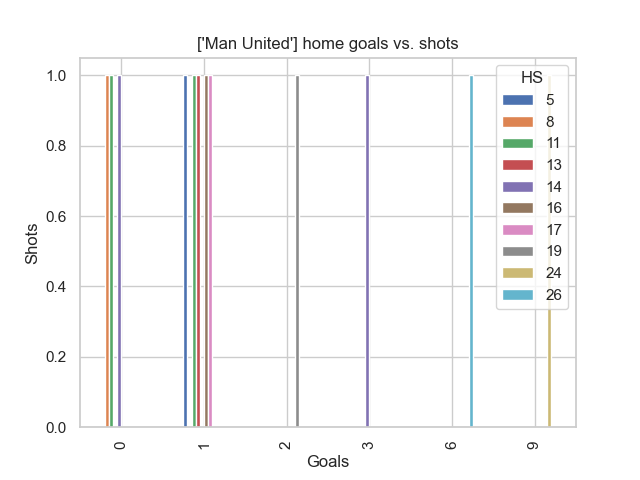
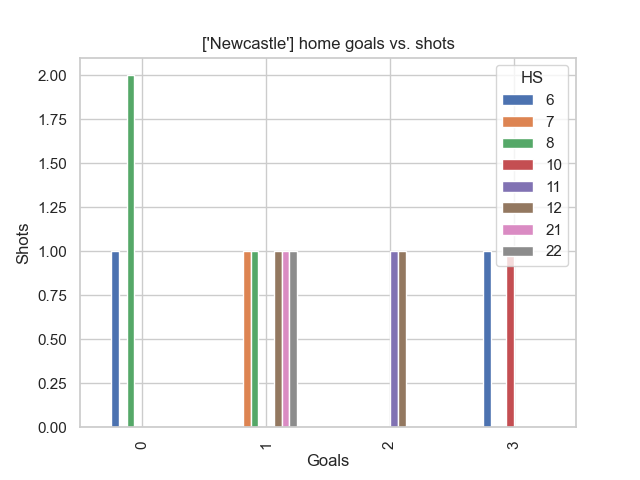
Added Newcastle United Home/Away datasets

diff --git a/main.py b/main.py
@@ -751,6 +751,8 @@ def logisticRegression(homeTeam,awayTeam):
             dataset = 'ManUHome.csv'
         elif ('Fulham' in homeTeam):
             dataset = 'FulhamHome.csv'
+        elif ('Newcastle' in homeTeam):
+            dataset = 'NewcastleHome.csv'
 
 
         sns.set(style="white")
@@ -796,6 +798,8 @@ def logisticRegression(homeTeam,awayTeam):
             dataset = 'ManUAway.csv'
         elif ('Fulham' in awayTeam):
             dataset = 'FulhamAway.csv'
+        elif ('Newcastle' in awayTeam):
+            dataset = 'NewcastleAway.csv'
 
         sns.set(style="white")
         sns.set(style="whitegrid", color_codes=True)
@@ -851,6 +855,8 @@ def linearRegression(homeTeam,awayTeam):
             dataset = 'ManUHome.csv'
         elif ('Fulham' in homeTeam):
             dataset = 'FulhamHome.csv'
+        elif ('Newcastle' in homeTeam):
+            dataset = 'NewcastleHome.csv'
 
         ##Read Data from the Database into pandas
         df = pd.read_csv(dataset, sep =',',header=0)
@@ -912,6 +918,8 @@ def linearRegression(homeTeam,awayTeam):
             dataset = 'ManUAway.csv'
         elif ('Fulham' in awayTeam):
             dataset = 'FulhamAway.csv'
+        elif ('Newcastle' in awayTeam):
+            dataset = 'NewcastleAway.csv'
 
         ##Read Data from the Database into pandas
         df = pd.read_csv(dataset, sep =',',header=0)
